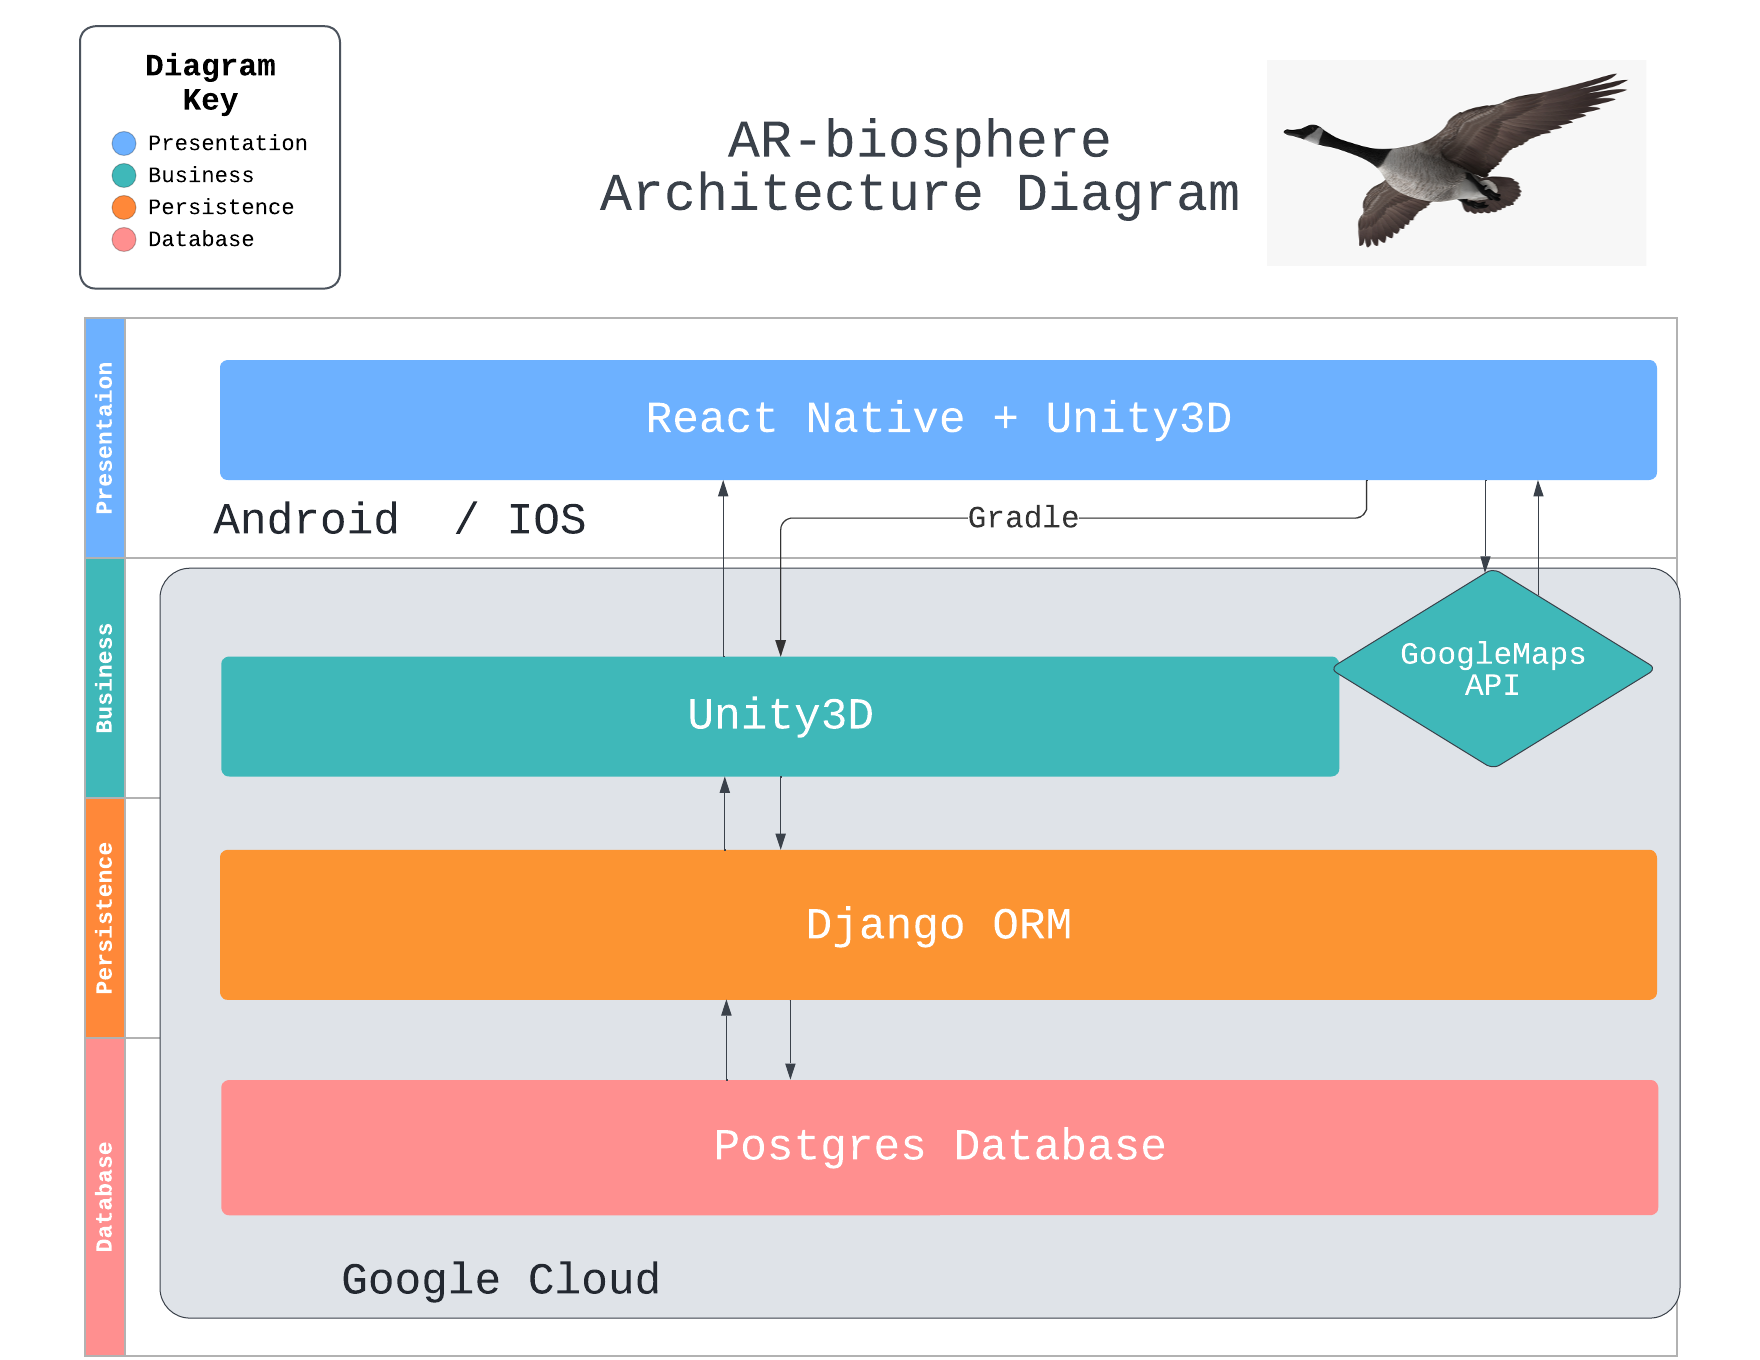
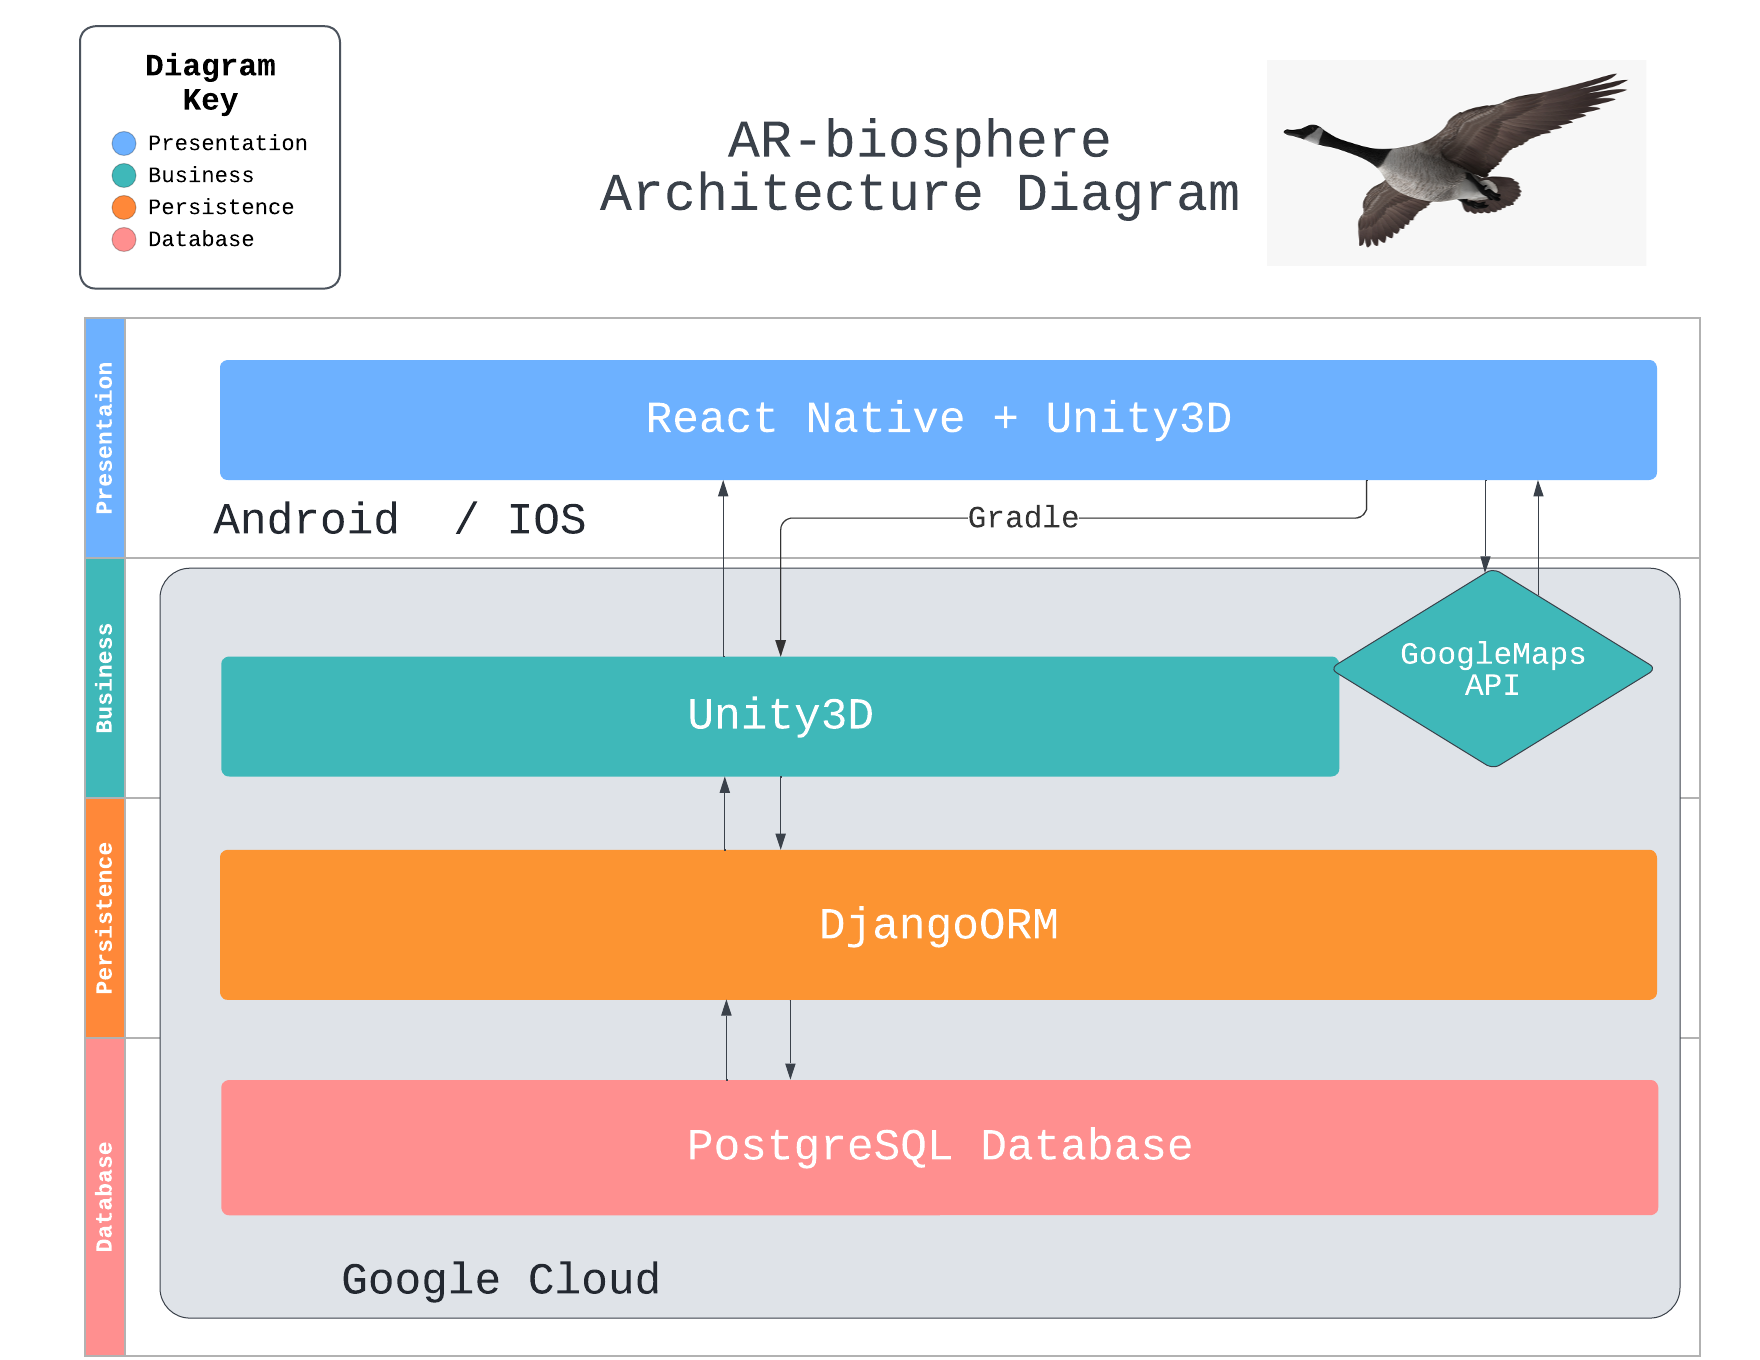
added sequence diagram and team canvas, updates

Changed region(s): [[0.375, 0.8338, 0.6875, 0.8647], [0.4688, 0.6485, 0.625, 0.7103], [0.9375, 0.9882, 0.9688, 1.0]]

diff --git a/docs/pages/software/index.html b/docs/pages/software/index.html
@@ -248,6 +248,13 @@
   
 </li>
       
+        <li class="md-nav__item">
+  <a href="#sequence-diagram" class="md-nav__link">
+    Sequence Diagram
+  </a>
+  
+</li>
+      
     </ul>
   
 </nav>
@@ -326,6 +333,13 @@
   
 </li>
       
+        <li class="md-nav__item">
+  <a href="#sequence-diagram" class="md-nav__link">
+    Sequence Diagram
+  </a>
+  
+</li>
+      
     </ul>
   
 </nav>
@@ -344,11 +358,14 @@
 
 <h1 id="software-design">Software Design</h1>
 <h2 id="architecture-diagram">Architecture Diagram</h2>
-<p>Our project will use the N-tier layered architecture format, we plan on using React Native and Unity3D for the user interface layer, and the main logic of our app will be laid out in Unity3D. We will use Unity for rendering AR models through the AR Foundation Framework that allows adaptation to both Android and iOS without further changes. Tentatively, we want to use Django ORM as the persistence layer for accessing model data, and postgres data base for storing 3D models that we will use for the AR experience. This architecture diagram may be subjected to change in future sprints. </p>
+<p>Our project will use the N-tier layered architecture format, we plan on using React Native and Unity3D for the user interface of the presentation layer, and the main logic of our app will be contained in Unity3D. Google Maps API will be used in the business layer to assist location detection. We will use Unity3D to build all AR related functionality through the AR Foundation Framework that allows adaptation to both Android and iOS without further changes. Tentatively, we want to use Django ORM as the persistence layer for accessing AR model data, and a PostgreSQL database for storing 3D models that we will use for the AR experience. Currently we plan on hosting the backend database on a Google Cloud server. This architecture diagram may be subjected to change in future sprints. </p>
 <p><img alt="Architecture" src="../../images/architecture.png" /></p>
 <h2 id="uml-class-diagram">UML Class Diagram</h2>
 <p>Our app can be divided into a number of central classes along with some helper ones. The user class makes calls that get the app user up and running like making calls that obtain the user's current location using the Location class (which further makes use of the class GeocoderResult that Google Maps API uses). The Camera class is responsible for displaying AR objects (which are classed as ARObject). ARObjects are heavily reliant on x, y, and z coordinates, which is why having a 3D vector class, Vector3, is convenient.</p>
 <p><img alt="UML" src="../../images/uml.svg" /></p>
+<h2 id="sequence-diagram">Sequence Diagram</h2>
+<p>The sequence diagram features the four most important interactions in our app: login, location recognition, camera view, and information view. From opening the app, users may choose to login. After which, all users must set their location either automatically through a built in maps API, or manually enter their location if the GPS is incorrect. Once location is set, users will be navigated to their camera view that allows them to point their camera at aquatic objects in order to see an AR of said object on screen. Users may view information about objects by clicking on them, where they may choose to navigate further to external Wiki sites through embedded links. Users may choose to save objects to their account database, if logged in. 
+<img alt="Sequence" src="../../images/sequence.png" /></p>
 
 
 

diff --git a/docs/pages/teamwork/index.html b/docs/pages/teamwork/index.html
@@ -558,8 +558,8 @@
 
 <h1 id="team-work">Team Work</h1>
 <h2 id="team-canvas">Team Canvas</h2>
-<p>Lorem ipsum dolor sit amet, consectetur adipiscing elit, sed do eiusmod tempor incididunt ut labore et dolore magna aliqua. Fames ac turpis egestas sed tempus. Aliquam ultrices sagittis orci a scelerisque purus semper. Lectus proin nibh nisl condimentum. Pharetra massa massa ultricies mi quis hendrerit. Ornare arcu odio ut sem. Proin nibh nisl condimentum id. Venenatis lectus magna fringilla urna porttitor rhoncus dolor. Ac tortor vitae purus faucibus. Quam quisque id diam vel quam. Massa tempor nec feugiat nisl pretium. Velit sed ullamcorper morbi tincidunt ornare massa eget. Nisl nisi scelerisque eu ultrices vitae auctor eu augue ut. Eu lobortis elementum nibh tellus molestie nunc. Lacus vestibulum sed arcu non. Faucibus et molestie ac feugiat sed lectus vestibulum mattis.</p>
-<p>Nulla porttitor massa id neque aliquam vestibulum morbi blandit. Nisl suscipit adipiscing bibendum est ultricies integer quis auctor. A cras semper auctor neque vitae tempus. Tristique risus nec feugiat in fermentum. Urna cursus eget nunc scelerisque viverra mauris. Vestibulum sed arcu non odio euismod. Vitae sapien pellentesque habitant morbi. Consectetur adipiscing elit pellentesque habitant morbi tristique senectus et netus. Consequat semper viverra nam libero justo laoreet. Non enim praesent elementum facilisis leo vel fringilla est. Ullamcorper sit amet risus nullam eget felis eget nunc.</p>
+<p>Below is the team canvas for our team
+<img alt="TeamCanvas" src="../../images/teamcanvas.png" /></p>
 <h2 id="belbin-roles">Belbin Roles</h2>
 <p>See <a href="https://www.belbin.com/about/belbin-team-roles">https://www.belbin.com/about/belbin-team-roles</a>.</p>
 <table>

diff --git a/docblueprint/pages/software.md b/docblueprint/pages/software.md
@@ -2,7 +2,7 @@
 
 ## Architecture Diagram
 
-Our project will use the N-tier layered architecture format, we plan on using React Native and Unity3D for the user interface layer, and the main logic of our app will be laid out in Unity3D. We will use Unity for rendering AR models through the AR Foundation Framework that allows adaptation to both Android and iOS without further changes. Tentatively, we want to use Django ORM as the persistence layer for accessing model data, and postgres data base for storing 3D models that we will use for the AR experience. This architecture diagram may be subjected to change in future sprints. 
+Our project will use the N-tier layered architecture format, we plan on using React Native and Unity3D for the user interface of the presentation layer, and the main logic of our app will be contained in Unity3D. Google Maps API will be used in the business layer to assist location detection. We will use Unity3D to build all AR related functionality through the AR Foundation Framework that allows adaptation to both Android and iOS without further changes. Tentatively, we want to use Django ORM as the persistence layer for accessing AR model data, and a PostgreSQL database for storing 3D models that we will use for the AR experience. Currently we plan on hosting the backend database on a Google Cloud server. This architecture diagram may be subjected to change in future sprints. 
 
 ![Architecture](../images/architecture.png)
 
@@ -12,3 +12,8 @@ Our project will use the N-tier layered architecture format, we plan on using Re
 Our app can be divided into a number of central classes along with some helper ones. The user class makes calls that get the app user up and running like making calls that obtain the user's current location using the Location class (which further makes use of the class GeocoderResult that Google Maps API uses). The Camera class is responsible for displaying AR objects (which are classed as ARObject). ARObjects are heavily reliant on x, y, and z coordinates, which is why having a 3D vector class, Vector3, is convenient.
 
 ![UML](../images/uml.svg)
+
+## Sequence Diagram
+
+The sequence diagram features the four most important interactions in our app: login, location recognition, camera view, and information view. From opening the app, users may choose to login. After which, all users must set their location either automatically through a built in maps API, or manually enter their location if the GPS is incorrect. Once location is set, users will be navigated to their camera view that allows them to point their camera at aquatic objects in order to see an AR of said object on screen. Users may view information about objects by clicking on them, where they may choose to navigate further to external Wiki sites through embedded links. Users may choose to save objects to their account database, if logged in. 
+![Sequence](../images/sequence.png)

diff --git a/docblueprint/pages/teamwork.md b/docblueprint/pages/teamwork.md
@@ -1,9 +1,8 @@
 # Team Work
 
 ## Team Canvas
-Lorem ipsum dolor sit amet, consectetur adipiscing elit, sed do eiusmod tempor incididunt ut labore et dolore magna aliqua. Fames ac turpis egestas sed tempus. Aliquam ultrices sagittis orci a scelerisque purus semper. Lectus proin nibh nisl condimentum. Pharetra massa massa ultricies mi quis hendrerit. Ornare arcu odio ut sem. Proin nibh nisl condimentum id. Venenatis lectus magna fringilla urna porttitor rhoncus dolor. Ac tortor vitae purus faucibus. Quam quisque id diam vel quam. Massa tempor nec feugiat nisl pretium. Velit sed ullamcorper morbi tincidunt ornare massa eget. Nisl nisi scelerisque eu ultrices vitae auctor eu augue ut. Eu lobortis elementum nibh tellus molestie nunc. Lacus vestibulum sed arcu non. Faucibus et molestie ac feugiat sed lectus vestibulum mattis.
-
-Nulla porttitor massa id neque aliquam vestibulum morbi blandit. Nisl suscipit adipiscing bibendum est ultricies integer quis auctor. A cras semper auctor neque vitae tempus. Tristique risus nec feugiat in fermentum. Urna cursus eget nunc scelerisque viverra mauris. Vestibulum sed arcu non odio euismod. Vitae sapien pellentesque habitant morbi. Consectetur adipiscing elit pellentesque habitant morbi tristique senectus et netus. Consequat semper viverra nam libero justo laoreet. Non enim praesent elementum facilisis leo vel fringilla est. Ullamcorper sit amet risus nullam eget felis eget nunc.
+Below is the team canvas for our team
+![TeamCanvas](../images/teamcanvas.png)
 
 ## Belbin Roles
 See [https://www.belbin.com/about/belbin-team-roles](https://www.belbin.com/about/belbin-team-roles).
